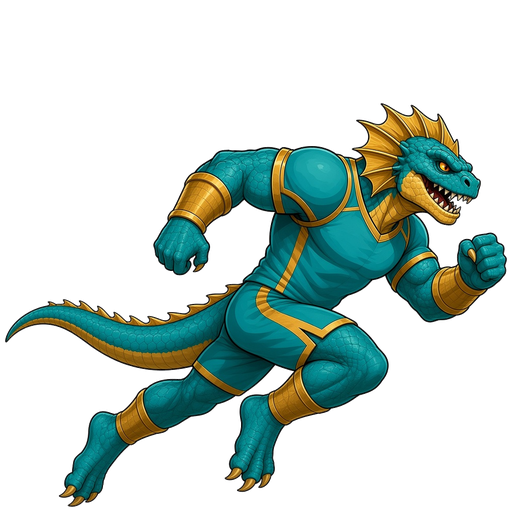
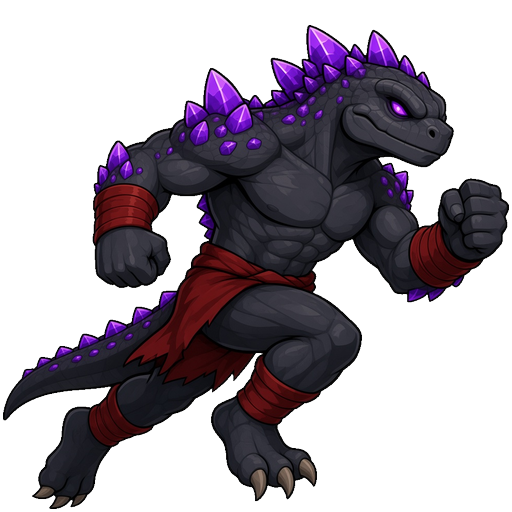
Amethyst Hollow Lizardfolk and colors

diff --git a/src/data.js b/src/data.js
@@ -273,7 +273,7 @@ export const RACES = [
     style: 'strong and quick',
     trait: 'scales',
     recruitCost: 75,
-    colors: { primary: '#1a9b8e', secondary: '#f0c14a', skin: '#2fbaa8', dark: '#0d3330', ink: '#081614' },
+    colors: { primary: '#8a3cff', secondary: '#2e2e34', skin: '#3a3a40', dark: '#1c1426', ink: '#0e0a14' },
     emblem: 'scale',
     base: { strength: 6, speed: 5, agility: 4, passing: 4 },
     positions: [
